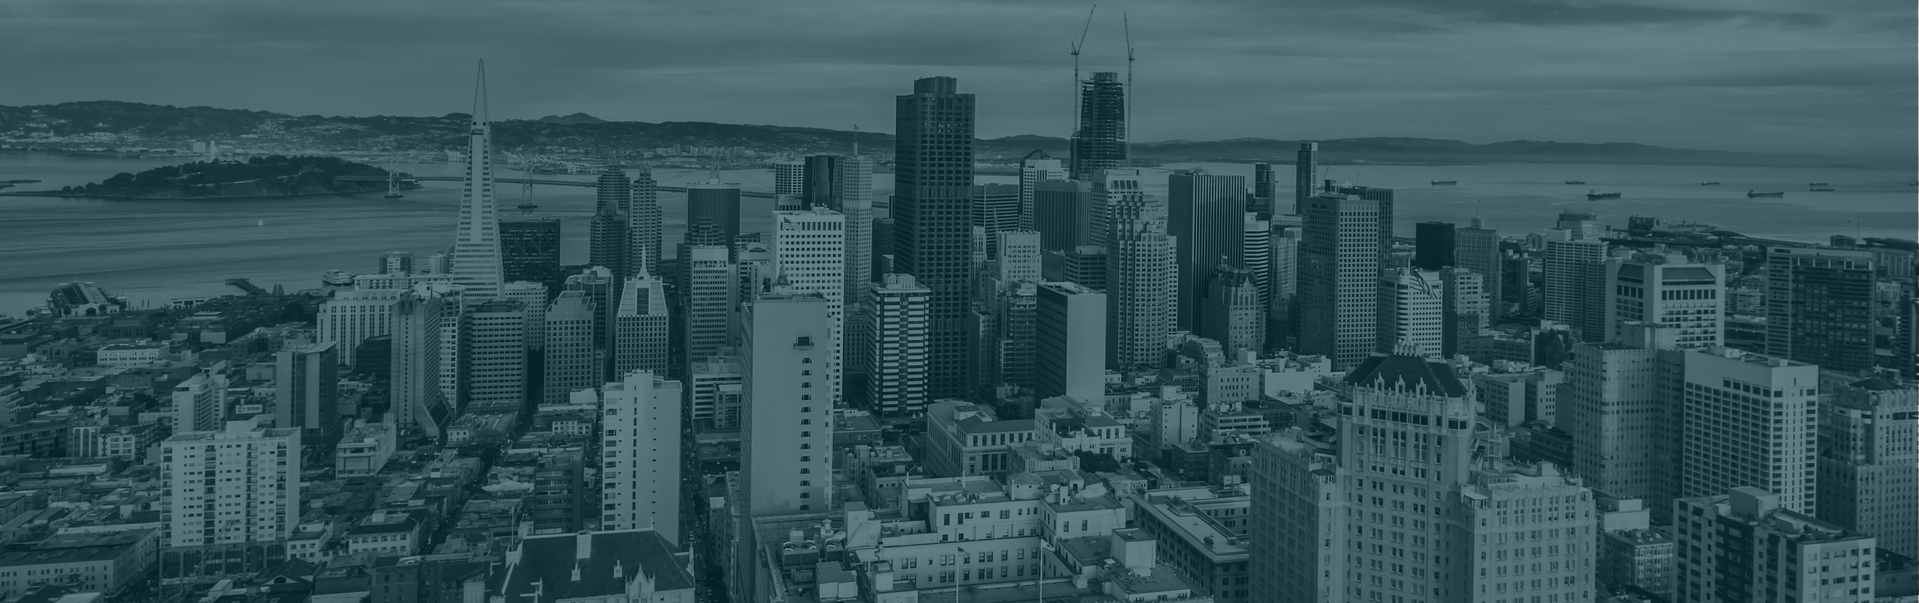
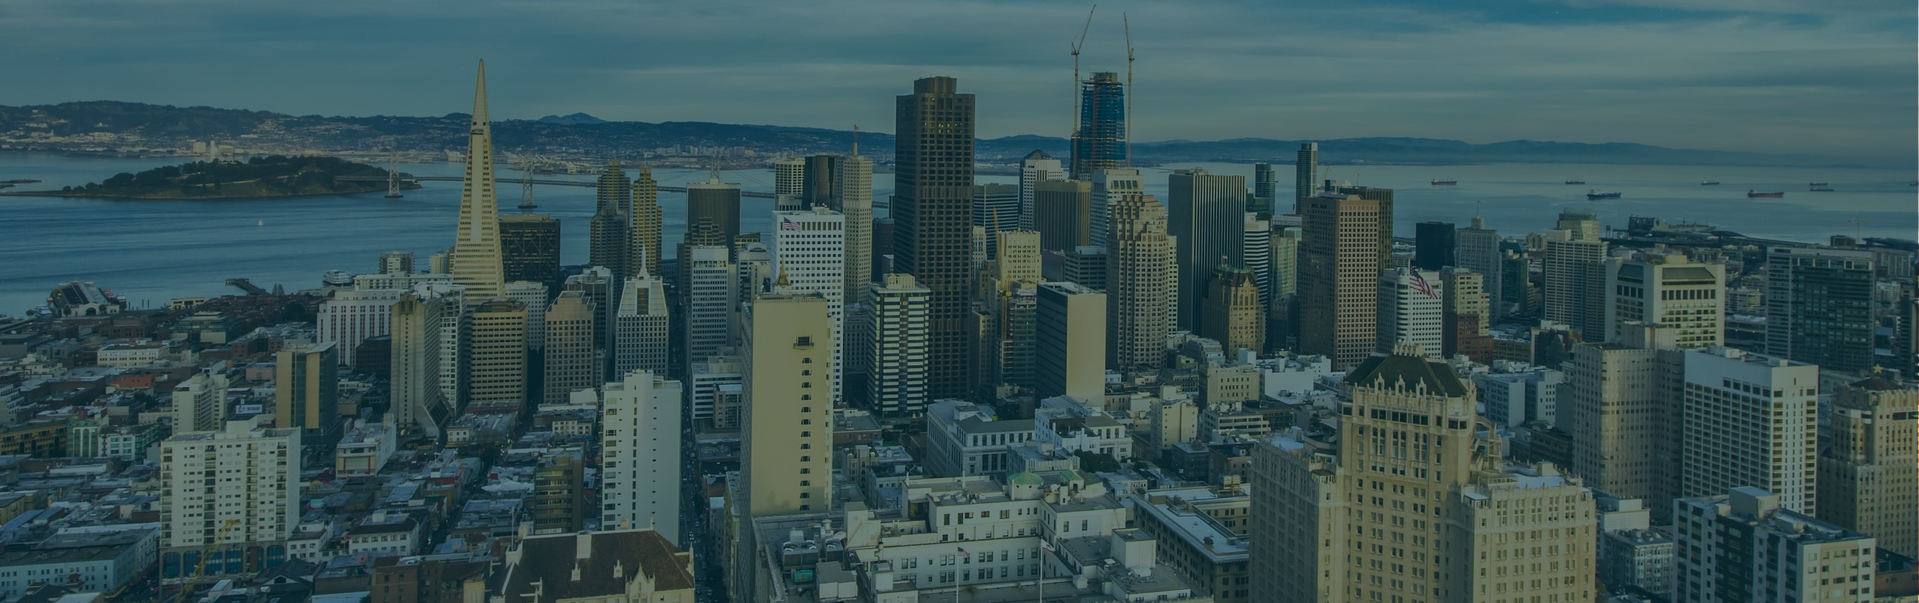
updated images to lighter shade

diff --git a/public/stylesheets/layout_main.css b/public/stylesheets/layout_main.css
@@ -11,7 +11,7 @@ h1, h2, h3, h4, h5, h6, p {
     left: -5px;
     height: 101.5%;
     background-size: 101% 101% !important;
-    background: url("../images/home-hero-image-medium.png") no-repeat;
+    background: url("../images/home-hero-image-medium-light.png") no-repeat;
     -webkit-background-size: cover; /* For WebKit*/
     -moz-background-size: cover; /* Mozilla*/
     -o-background-size: cover; /* Opera*/
@@ -86,7 +86,7 @@ h1, h2, h3, h4, h5, h6, p {
         left: -5px;
         height: 101.5%;
         background-size: 101% 101% !important;
-        background: url("../images/home-hero-image-large.png") no-repeat;
+        background: url("../images/home-hero-image-large-light.png") no-repeat;
         -webkit-background-size: cover; /* For WebKit*/
         -moz-background-size: cover; /* Mozilla*/
         -o-background-size: cover; /* Opera*/
@@ -100,7 +100,7 @@ h1, h2, h3, h4, h5, h6, p {
         left: -5px;
         height: 101.5%;
         background-size: 101% 101% !important;
-        background: url("../images/home-hero-image-medium.png") no-repeat;
+        background: url("../images/home-hero-image-medium-light.png") no-repeat;
         -webkit-background-size: cover; /* For WebKit*/
         -moz-background-size: cover; /* Mozilla*/
         -o-background-size: cover; /* Opera*/
@@ -144,7 +144,7 @@ h1, h2, h3, h4, h5, h6, p {
     .masthead.index {
         top: 0;
         left: 0;
-        background: url("../images/home-hero-image-medium.png") no-repeat;
+        background: url("../images/home-hero-image-small-light.png") no-repeat;
         -webkit-background-size: cover; /* For WebKit*/
         -moz-background-size: cover; /* Mozilla*/
         -o-background-size: cover; /* Opera*/
